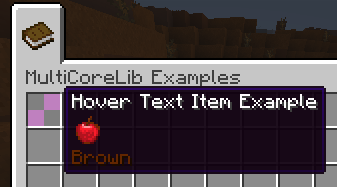
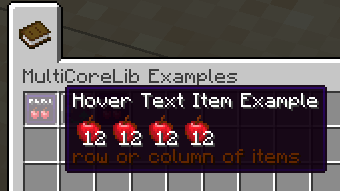
updated textures and fixed tooltip crash

diff --git a/src/main/java/multiteam/multicore_lib/setup/EventHandler.java b/src/main/java/multiteam/multicore_lib/setup/EventHandler.java
@@ -10,11 +10,11 @@ import net.minecraftforge.eventbus.api.SubscribeEvent;
 import net.minecraftforge.fml.common.Mod;
 
 
-@Mod.EventBusSubscriber(modid = MultiCoreLib.MOD_ID, bus = Mod.EventBusSubscriber.Bus.FORGE)
+@Mod.EventBusSubscriber(modid = MultiCoreLib.MOD_ID, bus = Mod.EventBusSubscriber.Bus.MOD)
 public class EventHandler {
 
     @SubscribeEvent
-    public static void registerTooltipsEvent(RegisterClientTooltipComponentFactoriesEvent event){
+    public static void registerClientTooltipsEvent(RegisterClientTooltipComponentFactoriesEvent event){
         event.register(ItemTooltipComponent.class, ClientItemTooltipComponent::new);
         event.register(ItemWithTextTooltipComponent.class, ClientItemWithTextTooltipComponent::new);
 

diff --git a/src/main/java/multiteam/multicore_lib/setup/example/README.md b/src/main/java/multiteam/multicore_lib/setup/example/README.md
@@ -19,7 +19,7 @@ public static final ItemGroupTool TAB_REFERENCE_NAME = new ItemGroupTool(String 
 
 
 ### [ItemTooltipComponent](https://github.com/MultiTeamDevGroup/MultiCore-Lib/blob/1.18/src/main/java/multiteam/multicore_lib/setup/example/main/item/HoverTextItemExampleItem.java#L34)
-![Hover Text Item Example Image](https://raw.githubusercontent.com/MultiTeamDevGroup/MultiCore-Lib/1.18/example/HoverTextItemExample.png)
+![Hover Text Item Example Image](https://raw.githubusercontent.com/MultiTeamDevGroup/MultiCore-Lib/1.19.2/example/HoverTextItemExample.png)
 
 This example item shows how to add an item into the tooltip of an item.
 Just simply override the getTooltipImage() function within your item class, and return a new ItemTooltipComponent. You can define the item for the tooltip component in many ways, we here just insert a new apple item
@@ -31,6 +31,8 @@ public @NotNull Optional<TooltipComponent> getTooltipImage(ItemStack stack) {
 }
 ```
 If you want to add an item tooltip component to an item that is already made (you don't have access to its class), just subscribe to the RenderTooltipEvent.GatherComponents event, and check if the item is what you want to modify, and if so just add a new ItemTooltipComponent, like so:
+
+!UNTESTED IN 1.19.2
 ```java
 @SubscribeEvent
 public static void gatherTooltips(RenderTooltipEvent.GatherComponents event) {
